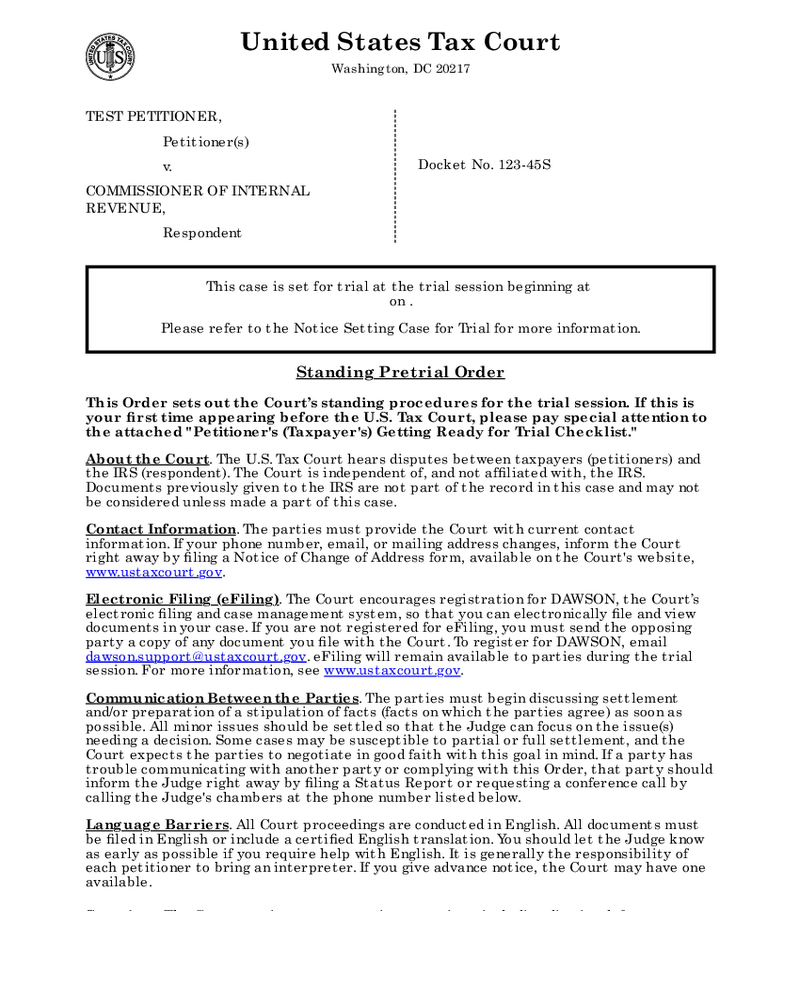
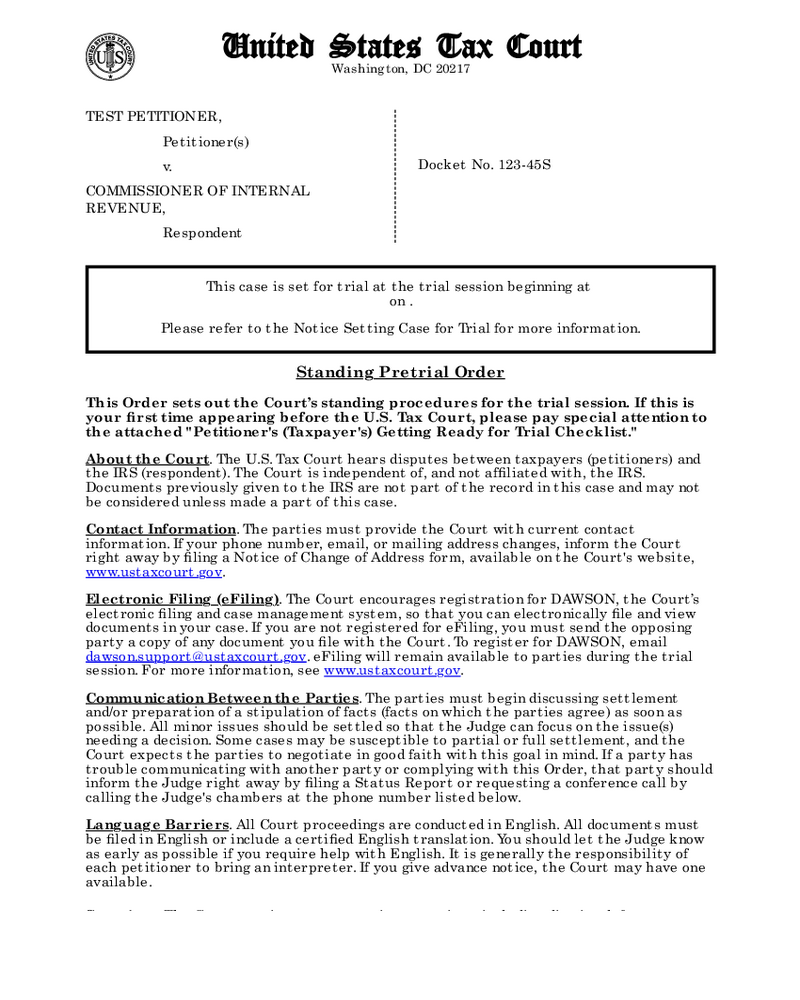
9093 - updating threshold and images

Changed region(s): [[0.2812, 0.031, 0.75, 0.062]]

diff --git a/image-compare-pdfs.js b/image-compare-pdfs.js
@@ -64,13 +64,15 @@ const pdfs = [
       const totalPixels = height * width;
       const percentDifference = (pixelDifference / totalPixels) * 100;
 
-      fs.mkdirSync(`./shared/test-output/diff`, { recursive: true });
+      console.log(`${pdf}: ${percentDifference}%`);
+
+      fs.mkdirSync('./shared/test-output/diff', { recursive: true });
       fs.writeFileSync(
         `./shared/test-output/diff/${pdf}.1.png`,
         PNG.sync.write(diff),
       );
 
-      if (percentDifference > 1) {
+      if (percentDifference > 0.1) {
         console.error(
           `${pdf} failed due to percentDifference of ${percentDifference}`,
         );
